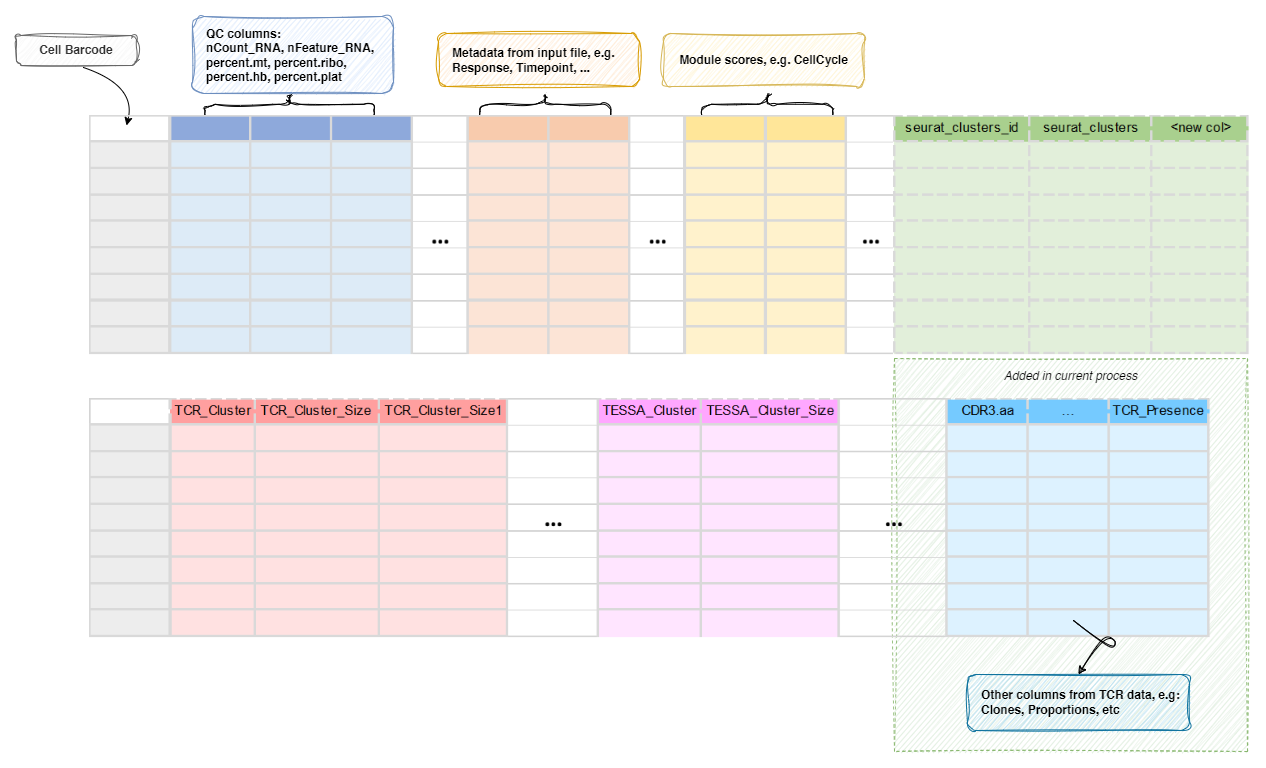
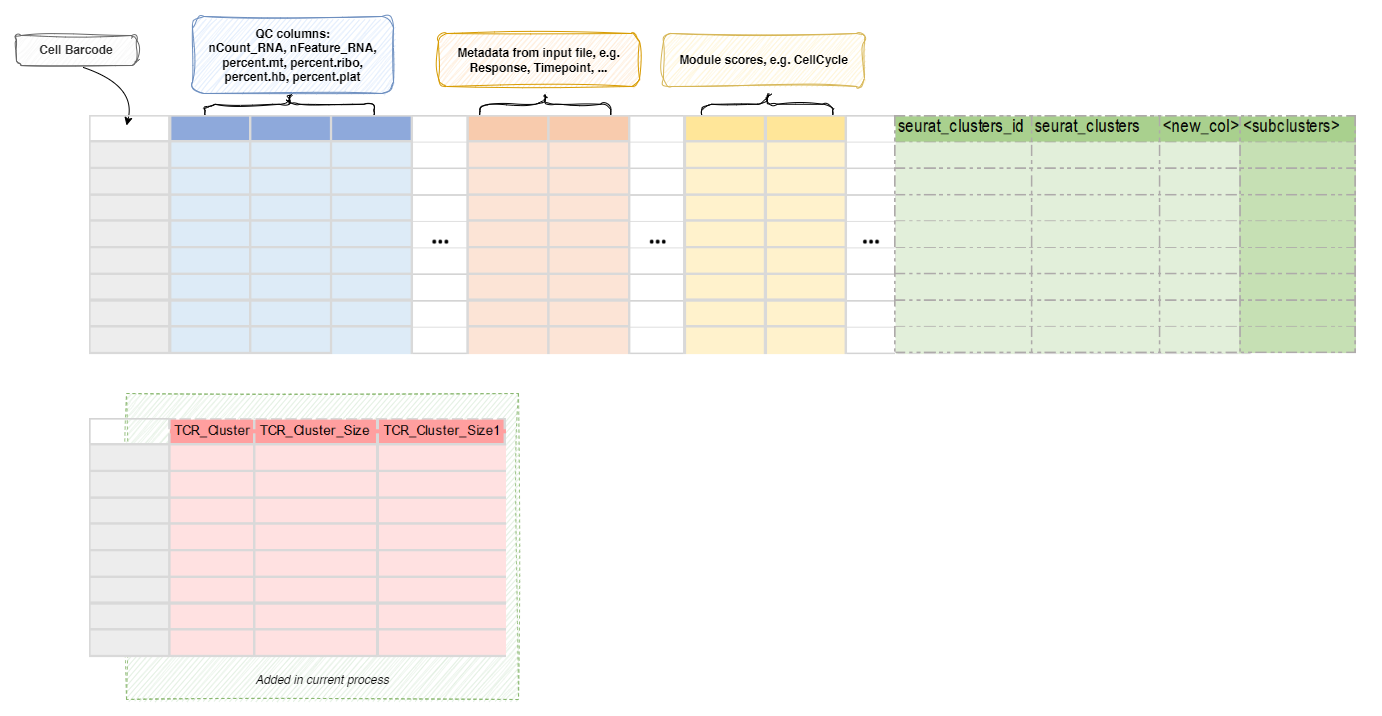
docs: add sub-clustering in metadata figures

diff --git a/immunopipe/processes.py b/immunopipe/processes.py
@@ -403,6 +403,12 @@ if just_loading or "SeuratSubClustering" in config:
         """Sub-cluster the selected T cells.
 
         {{*Summary}}
+
+        Metadata:
+            The metadata of the `Seurat` object will be updated with the sub-clusters
+            specified by names (keys) of `envs.cases`:
+
+            ![SeuratSubClustering-metadata]({{baseurl}}/processes/images/SeuratSubClustering-metadata.png)
         """
         requires = Clustered
         input_data = lambda ch1: ch1.iloc[:, [0]]

diff --git a/docs/processes/SeuratClusterStats.md b/docs/processes/SeuratClusterStats.md
@@ -59,6 +59,8 @@ TCR clones/clusters or other metadata for each T-cell cluster.<br />
     There is no default case.<br />
 - `stats_defaults` *(`ns`)*:
     The default parameters for `stats`.<br />
+    This is to do some basic statistics on the clusters. For more comprehensive analysis,
+    see `RadarPlots` and `CellsDistribution`.<br />
     The parameters from the cases can overwrite the default parameters.<br />
     - `frac` *(`flag`)*: *Default: `False`*. <br />
         Whether to output the fraction of cells instead of number.<br />
@@ -84,13 +86,21 @@ TCR clones/clusters or other metadata for each T-cell cluster.<br />
     - `subset`:
         An expression to subset the cells, will be passed to
         `dplyr::filter()` on metadata.<br />
+    - `pie_devpars` *(`ns`)*:
+        The device parameters for the pie charts.<br />
+        - `res` *(`type=int`)*: *Default: `100`*. <br />
+            The resolution of the plots.<br />
+        - `height` *(`type=int`)*: *Default: `600`*. <br />
+            The height of the plots.<br />
+        - `width` *(`type=int`)*: *Default: `800`*. <br />
+            The width of the plots.<br />
     - `devpars` *(`ns`)*:
         The device parameters for the plots.<br />
         - `res` *(`type=int`)*: *Default: `100`*. <br />
             The resolution of the plots.<br />
-        - `height` *(`type=int`)*: *Default: `800`*. <br />
+        - `height` *(`type=int`)*: *Default: `600`*. <br />
             The height of the plots.<br />
-        - `width` *(`type=int`)*: *Default: `1000`*. <br />
+        - `width` *(`type=int`)*: *Default: `800`*. <br />
             The width of the plots.<br />
     - `frac_ofall`: *Default: `False`*. <br />
 - `stats` *(`type=json`)*: *Default: `{'Number of cells in each cluster': Diot({'pie': True}), 'Number of cells in each cluster by Sample': Diot({'group-by': 'Sample', 'table': True, 'frac': True})}`*. <br />
@@ -102,7 +112,7 @@ TCR clones/clusters or other metadata for each T-cell cluster.<br />
     {
         "nCells_All": {},
         "nCells_Sample": {"group-by": "Sample"},
-        "fracCells_Sample": {"kind": "frac", "group-by": "Sample"},
+        "fracCells_Sample": {"frac": True, "group-by": "Sample"},
     }
     ```
 
@@ -138,6 +148,14 @@ TCR clones/clusters or other metadata for each T-cell cluster.<br />
     - `ident`: *Default: `seurat_clusters`*. <br />
         The column name in metadata to use as the identity.<br />
         If it is from subclustering (reduction `sub_umap_<ident>` exists), the reduction will be used.<br />
+    - `cluster_orderby` *(`type=auto`)*:
+        The order of the clusters to show on the plot.<br />
+        An expression passed to `dplyr::summarise()` on the grouped data frame (by `seurat_clusters`).<br />
+        The summary stat will be passed to `dplyr::arrange()` to order the clusters. It's applied on the whole meta.data before grouping and subsetting.<br />
+        For example, you can order the clusters by the activation score of
+        the cluster: `desc(mean(ActivationScore, na.rm = TRUE))`, suppose you have a column
+        `ActivationScore` in the metadata.<br />
+        You may also specify the literal order of the clusters by a list of strings.<br />
     - `subset`:
         An expression to subset the cells, will be passed to `tidyrseurat::filter()`.<br />
     - `devpars` *(`ns`)*:
@@ -197,7 +215,8 @@ TCR clones/clusters or other metadata for each T-cell cluster.<br />
             Same as `bar`.<br />
         - `heatmap`:
             Use `Seurat::DoHeatmap`.<br />
-            You can specify `average=True` to plot on the average of the expressions.<br />
+        - `avgheatmap`:
+            Plot the average expression of the features in each cluster as a heatmap.<br />
         - `table`:
             The table for the features, only gene expressions are supported.<br />
             (supported keys: ident, subset, and features).<br />
@@ -208,11 +227,13 @@ TCR clones/clusters or other metadata for each T-cell cluster.<br />
 - `dimplots_defaults` *(`ns`)*:
     The default parameters for `dimplots`.<br />
     - `ident`: *Default: `seurat_clusters`*. <br />
-        The column name in metadata to use as the identity.<br />
-        Ignored if `group-by` is specified.<br />
-        If it is from subclustering (reduction `sub_umap_<ident>` exists), the reduction will be used.<br />
+        The identity to use.<br />
+        If it is from subclustering (reduction `sub_umap_<ident>` exists), this reduction will be used if `reduction`
+        is set to `dim` or `auto`.<br />
     - `group-by`:
-        Same as `ident`. How the points are colored.<br />
+        Same as `ident` if not specified, to define how the points are colored.<br />
+    - `na_group`:
+        The group name for NA values, use `None` to ignore NA values.<br />
     - `split-by`:
         The column name in metadata to split the cells into different plots.<br />
     - `shape-by`:

diff --git a/docs/processes/MarkersFinder.md b/docs/processes/MarkersFinder.md
@@ -42,7 +42,27 @@ function, and performs enrichment analysis for the markers found.<br />
     * `.sum`: The sum of the sizes of clones in the first and second groups.<br />
     * `.predicate`: Showing whether the clone is expanded/collapsed/emerged/vanished.<br />
     * `include_emerged`: Whether to include the emerged group for `expanded` (only works for `expanded`). Default is `FALSE`.<br />
-    * `include_vanished`: Whether to include the vanished group for `collapsed` (only works for `collapsed`). Default is `FALSE`..<br />
+    * `include_vanished`: Whether to include the vanished group for `collapsed` (only works for `collapsed`). Default is `FALSE`.<br />
+    You can also use `top()` to get the top clones (i.e. the clones with the largest size) in each group.<br />
+    For example, you can use `{"Patient1_Top10_Clones": "top(subset = Patent == 'Patient1', uniq = FALSE)"}` to create a new column in metadata named `Patient1_Top10_Clones`.<br />
+    The values in this columns for other clones will be `NA`.<br />
+    This function takes following arguments:<br />
+    * `df`: The metadata data frame. You can use the `.` to refer to it.<br />
+    * `id`: The column name in metadata for the group ids (i.e. `CDR3.aa`).<br />
+    * `n`: The number of top clones to return. Default is `10`.<br />
+    If n < 1, it will be treated as the percentage of the size of the group.<br />
+    Specify `0` to get all clones.<br />
+    * `compare`: Either a (numeric) column name (i.e. `Clones`) in metadata to compare between groups, or `.n` to compare the number of cells in each group.<br />
+    If numeric column is given, the values should be the same for all cells in the same group.<br />
+    This will not be checked (only the first value is used).<br />
+    It is helpful to use `Clones` to use the raw clone size from TCR data, in case the cells are not completely mapped to RNA data.<br />
+    Also if you have `subset` set or `NA`s in `group.by` column, you should use `.n` to compare the number of cells in each group.<br />
+    * `subset`: An expression to subset the cells, will be passed to `dplyr::filter()`. Default is `TRUE` (no filtering).<br />
+    * `each`: A column name (without quotes) in metadata to split the cells.<br />
+    Each comparison will be done for each value in this column (typically each patient or subject).<br />
+    * `uniq`: Whether to return unique ids or not. Default is `TRUE`. If `FALSE`, you can mutate the meta data frame with the returned ids. For example, `df |> mutate(expanded = expanded(...))`.<br />
+    * `debug`: Return the data frame with intermediate columns instead of the ids. Default is `FALSE`.<br />
+    * `with_ties`: Whether to include ties (i.e. clones with the same size as the last clone) or not. Default is `FALSE`..<br />
     See also
     [mutating the metadata](../configurations.md#mutating-the-metadata).<br />
 - `ident-1`:

diff --git a/docs/processes/RadarPlots.md b/docs/processes/RadarPlots.md
@@ -25,6 +25,24 @@ in different T-cell clusters.<br />
     each value in the column.<br />
     If specified, `section` will be ignored, and the case name will
     be used as the section name.<br />
+- `breakdown`:
+    An additional column with groups to break down the cells
+    distribution in each cluster. For example, if you want to see the
+    distribution of the cells in each cluster in different samples. In
+    this case, you should have multiple values in each `by`. These values
+    won't be plotted in the radar plot, but a barplot will be generated
+    with the mean value of each group and the error bar.<br />
+- `test` *(`choice`)*: *Default: `wilcox`*. <br />
+    The test to use to calculate the p values.<br />
+    If there are more than 2 groups in `by`, the p values will be calculated
+    pairwise group by group. Only works when `breakdown` is specified and
+    `by` has 2 groups or more.<br />
+    - `wilcox`:
+        Wilcoxon rank sum test
+    - `t`:
+        T test
+    - `none`:
+        No test will be performed
 - `order` *(`list`)*:
     The order of the values in `by`. You can also limit
     (filter) the values we have in `by`. For example, if column `Source`
@@ -32,7 +50,7 @@ in different T-cell clusters.<br />
     `Tumor` and `Blood`, you can set `order` to `["Tumor", "Blood"]`.<br />
     This will also have `Tumor` as the first item in the legend and `Blood`
     as the second item.<br />
-- `cluster_col`: *Default: `seurat_clusters`*. <br />
+- `ident`: *Default: `seurat_clusters`*. <br />
     The column name of the cluster information.<br />
 - `cluster_order` *(`list`)*: *Default: `[]`*. <br />
     The order of the clusters.<br />
@@ -55,6 +73,14 @@ in different T-cell clusters.<br />
     If you want to put multiple cases into a same section
     in the report, you can set this option to the name of the section.<br />
     Only used in the report.<br />
+- `bar_devpars` *(`ns`)*:
+    The parameters for `png()` for the barplot
+    - `res` *(`type=int`)*: *Default: `100`*. <br />
+        The resolution of the plot
+    - `height` *(`type=int`)*: *Default: `800`*. <br />
+        The height of the plot
+    - `width` *(`type=int`)*: *Default: `1200`*. <br />
+        The width of the plot
 - `devpars` *(`ns`)*:
     The parameters for `png()`
     - `res` *(`type=int`)*: *Default: `100`*. <br />
@@ -67,7 +93,7 @@ in different T-cell clusters.<br />
     The cases for the multiple radar plots.<br />
     Keys are the names of the cases and values are the arguments for
     the plots (`each`, `by`, `order`, `breaks`, `direction`,
-    `cluster_col`, `cluster_order` and `devpars`).<br />
+    `ident`, `cluster_order` and `devpars`).<br />
     If not cases are given, a default case will be used, with the
     key `DEFAULT`.<br />
     The keys must be valid string as part of the file name.<br />

diff --git a/docs/processes/CellsDistribution.md b/docs/processes/CellsDistribution.md
@@ -46,6 +46,29 @@ are groups (i.e. clinic groups).<br />
     * `.predicate`: Showing whether the clone is expanded/collapsed/emerged/vanished.<br />
     * `include_emerged`: Whether to include the emerged group for `expanded` (only works for `expanded`). Default is `FALSE`.<br />
     * `include_vanished`: Whether to include the vanished group for `collapsed` (only works for `collapsed`). Default is `FALSE`.<br />
+
+    You can also use `top()` to get the top clones (i.e. the clones with the largest size) in each group.<br />
+    For example, you can use
+    `{"Patient1_Top10_Clones": "top(subset = Patent == 'Patient1', uniq = FALSE)"}`
+    to create a new column in metadata named `Patient1_Top10_Clones`.<br />
+    The values in this columns for other clones will be `NA`.<br />
+    This function takes following arguments:<br />
+    * `df`: The metadata data frame. You can use the `.` to refer to it.<br />
+    * `id`: The column name in metadata for the group ids (i.e. `CDR3.aa`).<br />
+    * `n`: The number of top clones to return. Default is `10`.<br />
+    If n < 1, it will be treated as the percentage of the size of the group.<br />
+    Specify `0` to get all clones.<br />
+    * `compare`: Either a (numeric) column name (i.e. `Clones`) in metadata to compare between groups, or `.n` to compare the number of cells in each group.<br />
+    If numeric column is given, the values should be the same for all cells in the same group.<br />
+    This will not be checked (only the first value is used).<br />
+    It is helpful to use `Clones` to use the raw clone size from TCR data, in case the cells are not completely mapped to RNA data.<br />
+    Also if you have `subset` set or `NA`s in `group.by` column, you should use `.n` to compare the number of cells in each group.<br />
+    * `subset`: An expression to subset the cells, will be passed to `dplyr::filter()`. Default is `TRUE` (no filtering).<br />
+    * `each`: A column name (without quotes) in metadata to split the cells.<br />
+    Each comparison will be done for each value in this column (typically each patient or subject).<br />
+    * `uniq`: Whether to return unique ids or not. Default is `TRUE`. If `FALSE`, you can mutate the meta data frame with the returned ids. For example, `df |> mutate(expanded = expanded(...))`.<br />
+    * `debug`: Return the data frame with intermediate columns instead of the ids. Default is `FALSE`.<br />
+    * `with_ties`: Whether to include ties (i.e. clones with the same size as the last clone) or not. Default is `FALSE`.<br />
 - `cluster_orderby`:
     The order of the clusters to show on the plot.<br />
     An expression passed to `dplyr::summarise()` on the grouped data frame (by `seurat_clusters`).<br />

diff --git a/docs/processes/MetaMarkers.md b/docs/processes/MetaMarkers.md
@@ -54,6 +54,29 @@ generates violin plots for the top 10 markers.<br />
     * `.predicate`: Showing whether the clone is expanded/collapsed/emerged/vanished.<br />
     * `include_emerged`: Whether to include the emerged group for `expanded` (only works for `expanded`). Default is `FALSE`.<br />
     * `include_vanished`: Whether to include the vanished group for `collapsed` (only works for `collapsed`). Default is `FALSE`.<br />
+
+    You can also use `top()` to get the top clones (i.e. the clones with the largest size) in each group.<br />
+    For example, you can use
+    `{"Patient1_Top10_Clones": "top(subset = Patent == 'Patient1', uniq = FALSE)"}`
+    to create a new column in metadata named `Patient1_Top10_Clones`.<br />
+    The values in this columns for other clones will be `NA`.<br />
+    This function takes following arguments:<br />
+    * `df`: The metadata data frame. You can use the `.` to refer to it.<br />
+    * `id`: The column name in metadata for the group ids (i.e. `CDR3.aa`).<br />
+    * `n`: The number of top clones to return. Default is `10`.<br />
+    If n < 1, it will be treated as the percentage of the size of the group.<br />
+    Specify `0` to get all clones.<br />
+    * `compare`: Either a (numeric) column name (i.e. `Clones`) in metadata to compare between groups, or `.n` to compare the number of cells in each group.<br />
+    If numeric column is given, the values should be the same for all cells in the same group.<br />
+    This will not be checked (only the first value is used).<br />
+    It is helpful to use `Clones` to use the raw clone size from TCR data, in case the cells are not completely mapped to RNA data.<br />
+    Also if you have `subset` set or `NA`s in `group.by` column, you should use `.n` to compare the number of cells in each group.<br />
+    * `subset`: An expression to subset the cells, will be passed to `dplyr::filter()`. Default is `TRUE` (no filtering).<br />
+    * `each`: A column name (without quotes) in metadata to split the cells.<br />
+    Each comparison will be done for each value in this column (typically each patient or subject).<br />
+    * `uniq`: Whether to return unique ids or not. Default is `TRUE`. If `FALSE`, you can mutate the meta data frame with the returned ids. For example, `df |> mutate(expanded = expanded(...))`.<br />
+    * `debug`: Return the data frame with intermediate columns instead of the ids. Default is `FALSE`.<br />
+    * `with_ties`: Whether to include ties (i.e. clones with the same size as the last clone) or not. Default is `FALSE`.<br />
 - `group-by`:
     The column name in metadata to group the cells.<br />
     If only `group-by` is specified, and `idents` are

diff --git a/docs/processes/ScFGSEA.md b/docs/processes/ScFGSEA.md
@@ -58,6 +58,29 @@ each gene set, and GSEA plots for the top gene sets.<br />
     * `.predicate`: Showing whether the clone is expanded/collapsed/emerged/vanished.<br />
     * `include_emerged`: Whether to include the emerged group for `expanded` (only works for `expanded`). Default is `FALSE`.<br />
     * `include_vanished`: Whether to include the vanished group for `collapsed` (only works for `collapsed`). Default is `FALSE`.<br />
+
+    You can also use `top()` to get the top clones (i.e. the clones with the largest size) in each group.<br />
+    For example, you can use
+    `{"Patient1_Top10_Clones": "top(subset = Patent == 'Patient1', uniq = FALSE)"}`
+    to create a new column in metadata named `Patient1_Top10_Clones`.<br />
+    The values in this columns for other clones will be `NA`.<br />
+    This function takes following arguments:<br />
+    * `df`: The metadata data frame. You can use the `.` to refer to it.<br />
+    * `id`: The column name in metadata for the group ids (i.e. `CDR3.aa`).<br />
+    * `n`: The number of top clones to return. Default is `10`.<br />
+    If n < 1, it will be treated as the percentage of the size of the group.<br />
+    Specify `0` to get all clones.<br />
+    * `compare`: Either a (numeric) column name (i.e. `Clones`) in metadata to compare between groups, or `.n` to compare the number of cells in each group.<br />
+    If numeric column is given, the values should be the same for all cells in the same group.<br />
+    This will not be checked (only the first value is used).<br />
+    It is helpful to use `Clones` to use the raw clone size from TCR data, in case the cells are not completely mapped to RNA data.<br />
+    Also if you have `subset` set or `NA`s in `group.by` column, you should use `.n` to compare the number of cells in each group.<br />
+    * `subset`: An expression to subset the cells, will be passed to `dplyr::filter()`. Default is `TRUE` (no filtering).<br />
+    * `each`: A column name (without quotes) in metadata to split the cells.<br />
+    Each comparison will be done for each value in this column (typically each patient or subject).<br />
+    * `uniq`: Whether to return unique ids or not. Default is `TRUE`. If `FALSE`, you can mutate the meta data frame with the returned ids. For example, `df |> mutate(expanded = expanded(...))`.<br />
+    * `debug`: Return the data frame with intermediate columns instead of the ids. Default is `FALSE`.<br />
+    * `with_ties`: Whether to include ties (i.e. clones with the same size as the last clone) or not. Default is `FALSE`.<br />
 - `group-by`:
     The column name in metadata to group the cells.<br />
 - `ident-1`:

diff --git a/docs/processes/IntegratingTCR.md b/docs/processes/IntegratingTCR.md
@@ -78,6 +78,29 @@ reduction plot with scTCR-seq data available.<br />
     * `include_emerged`: Whether to include the emerged group for `expanded` (only works for `expanded`). Default is `FALSE`.<br />
     * `include_vanished`: Whether to include the vanished group for `collapsed` (only works for `collapsed`). Default is `FALSE`.<br />
 
+    You can also use `top()` to get the top clones (i.e. the clones with the largest size) in each group.<br />
+    For example, you can use
+    `{"Patient1_Top10_Clones": "top(subset = Patent == 'Patient1', uniq = FALSE)"}`
+    to create a new column in metadata named `Patient1_Top10_Clones`.<br />
+    The values in this columns for other clones will be `NA`.<br />
+    This function takes following arguments:<br />
+    * `df`: The metadata data frame. You can use the `.` to refer to it.<br />
+    * `id`: The column name in metadata for the group ids (i.e. `CDR3.aa`).<br />
+    * `n`: The number of top clones to return. Default is `10`.<br />
+    If n < 1, it will be treated as the percentage of the size of the group.<br />
+    Specify `0` to get all clones.<br />
+    * `compare`: Either a (numeric) column name (i.e. `Clones`) in metadata to compare between groups, or `.n` to compare the number of cells in each group.<br />
+    If numeric column is given, the values should be the same for all cells in the same group.<br />
+    This will not be checked (only the first value is used).<br />
+    It is helpful to use `Clones` to use the raw clone size from TCR data, in case the cells are not completely mapped to RNA data.<br />
+    Also if you have `subset` set or `NA`s in `group.by` column, you should use `.n` to compare the number of cells in each group.<br />
+    * `subset`: An expression to subset the cells, will be passed to `dplyr::filter()`. Default is `TRUE` (no filtering).<br />
+    * `each`: A column name (without quotes) in metadata to split the cells.<br />
+    Each comparison will be done for each value in this column (typically each patient or subject).<br />
+    * `uniq`: Whether to return unique ids or not. Default is `TRUE`. If `FALSE`, you can mutate the meta data frame with the returned ids. For example, `df |> mutate(expanded = expanded(...))`.<br />
+    * `debug`: Return the data frame with intermediate columns instead of the ids. Default is `FALSE`.<br />
+    * `with_ties`: Whether to include ties (i.e. clones with the same size as the last clone) or not. Default is `FALSE`.<br />
+
 ## Metadata
 
 The metadata of the `Seurat` object will be updated with information from

diff --git a/docs/processes/TCellSelection.md b/docs/processes/TCellSelection.md
@@ -14,8 +14,19 @@ There are two ways to separate T and non-T cells:<br />
 2. Use the expression values of indicator genes, and the clonotype percentage
 of the clusters.<br />
 
+You can also use indicator gene expression values only to select T cells by setting
+`envs.ignore_tcr` to true.<br />
+
 ## Environment Variables
 
+- `ignore_tcr` *(`flag`)*: *Default: `False`*. <br />
+    Ignore TCR information for T cell selection.<br />
+    Use only the expression values of indicator genes.<br />
+    In this case, the `Clonotype_Pct` column does not exist in the metadata.<br />
+    If you want to use `k-means` to select T cells, you must have more than
+    1 indicator gene, and the first indicator gene in `envs.indicator_genes`
+    must be a positive marker, which will be used to select the cluster with
+    higher expression values as T cells.<br />
 - `tcell_selector`:
     The expression passed to `tidyseurat::mutate(is_TCell = ...)`
     to indicate whether a cell is a T cell. For example, `Clonotype_Pct > 0.25`
@@ -37,6 +48,12 @@ of the clusters.<br />
     clonotype percentage will be used to determine T cells.<br />
     The markers could be either positive, such as `CD3E`, `CD3D`, `CD3G`, or
     negative, such as `CD19`, `CD14`, `CD68`.<br />
+
+- `kmeans` *(`type=json`)*: *Default: `{}`*. <br />
+    The parameters for `kmeans` clustering.<br />
+    Other arguments for [`stats::kmeans`](https://rdrr.io/r/stats/kmeans.html)
+    can be provided here. If there are dots in the argument names, replace them
+    with `-`.<br />
 
 ## Examples
 

diff --git a/docs/processes/SeuratSubClustering.md b/docs/processes/SeuratSubClustering.md
@@ -55,7 +55,7 @@ clustering will be saved in the metadata of the original object using the casena
         The final resolution will be used to define the clusters at `<casename>`.<br />
     - `<more>`:
         See <https://satijalab.org/seurat/reference/findclusters>
-- `cache` *(`type=auto`)*: *Default: `True`*. <br />
+- `cache` *(`type=auto`)*: *Default: `False`*. <br />
     Whether to cache the seurat object with cluster information.<br />
     If `True`, the seurat object will be cached in the job output directory, which will be not cleaned up when job is rerunning.<br />
     The cached seurat object will be saved as `<signature>.cached.RDS` file, where `<signature>` is the signature determined by
@@ -72,4 +72,11 @@ clustering will be saved in the metadata of the original object using the casena
     The cases to perform subclustering.<br />
     Keys are the names of the cases and values are the dicts inherited from `envs` except `mutaters` and `cache`.<br />
     If empty, a case with name `subcluster` will be created with default parameters.<br />
+
+## Metadata
+
+The metadata of the `Seurat` object will be updated with the sub-clusters
+specified by names (keys) of `envs.cases`:<br />
+
+![SeuratSubClustering-metadata](../processes/images/SeuratSubClustering-metadata.png)
 

diff --git a/docs/processes/SeuratClustering.md b/docs/processes/SeuratClustering.md
@@ -62,7 +62,7 @@ See also: [SeuratClusteringOfAllCells](./SeuratClusteringOfAllCells.md).<br />
         The final resolution will be used to define the clusters at `seurat_clusters`.<br />
     - `<more>`:
         See <https://satijalab.org/seurat/reference/findclusters>
-- `cache` *(`type=auto`)*: *Default: `True`*. <br />
+- `cache` *(`type=auto`)*: *Default: `False`*. <br />
     Whether to cache the seurat object with cluster information.<br />
     If `True`, the seurat object will be cached in the job output directory, which will be not cleaned up when job is rerunning.<br />
     The cached seurat object will be saved as `<signature>.cached.RDS` file, where `<signature>` is the signature determined by

diff --git a/docs/processes/SeuratClusteringOfAllCells.md b/docs/processes/SeuratClusteringOfAllCells.md
@@ -70,7 +70,7 @@ for supervised clustering.<br />
         The final resolution will be used to define the clusters at `seurat_clusters`.<br />
     - `<more>`:
         See <https://satijalab.org/seurat/reference/findclusters>
-- `cache` *(`type=auto`)*: *Default: `True`*. <br />
+- `cache` *(`type=auto`)*: *Default: `False`*. <br />
     Whether to cache the seurat object with cluster information.<br />
     If `True`, the seurat object will be cached in the job output directory, which will be not cleaned up when job is rerunning.<br />
     The cached seurat object will be saved as `<signature>.cached.RDS` file, where `<signature>` is the signature determined by
